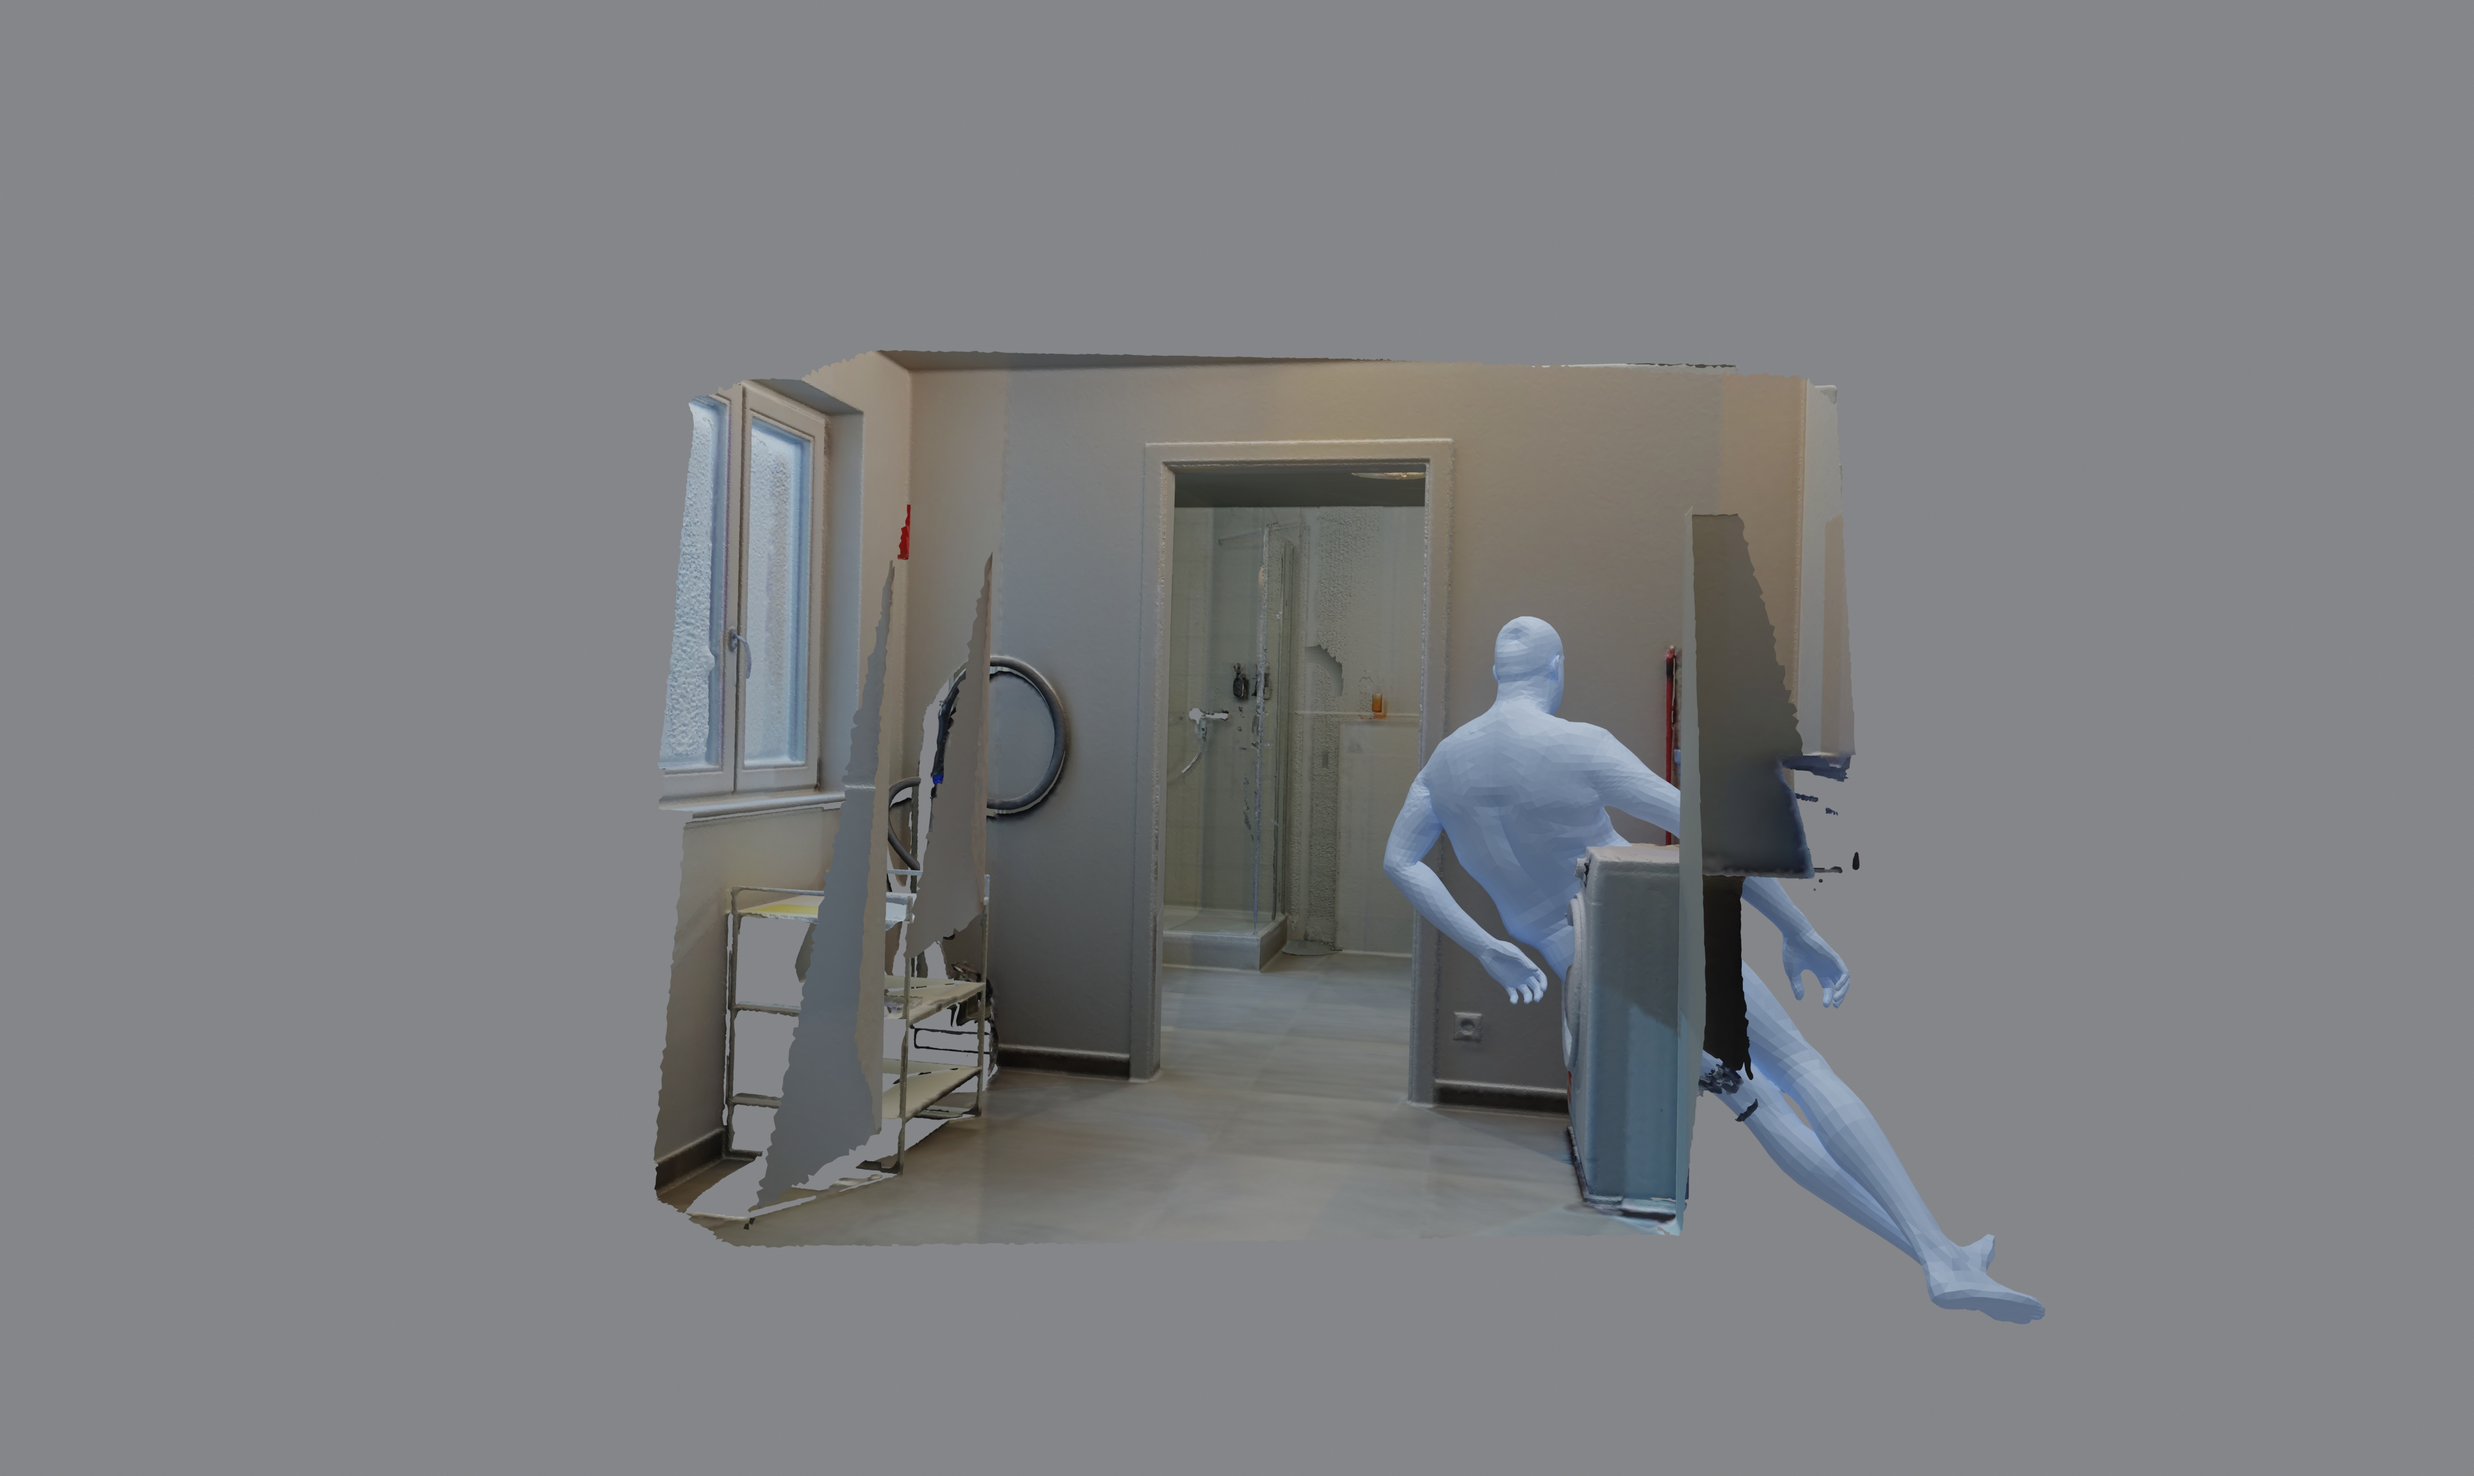
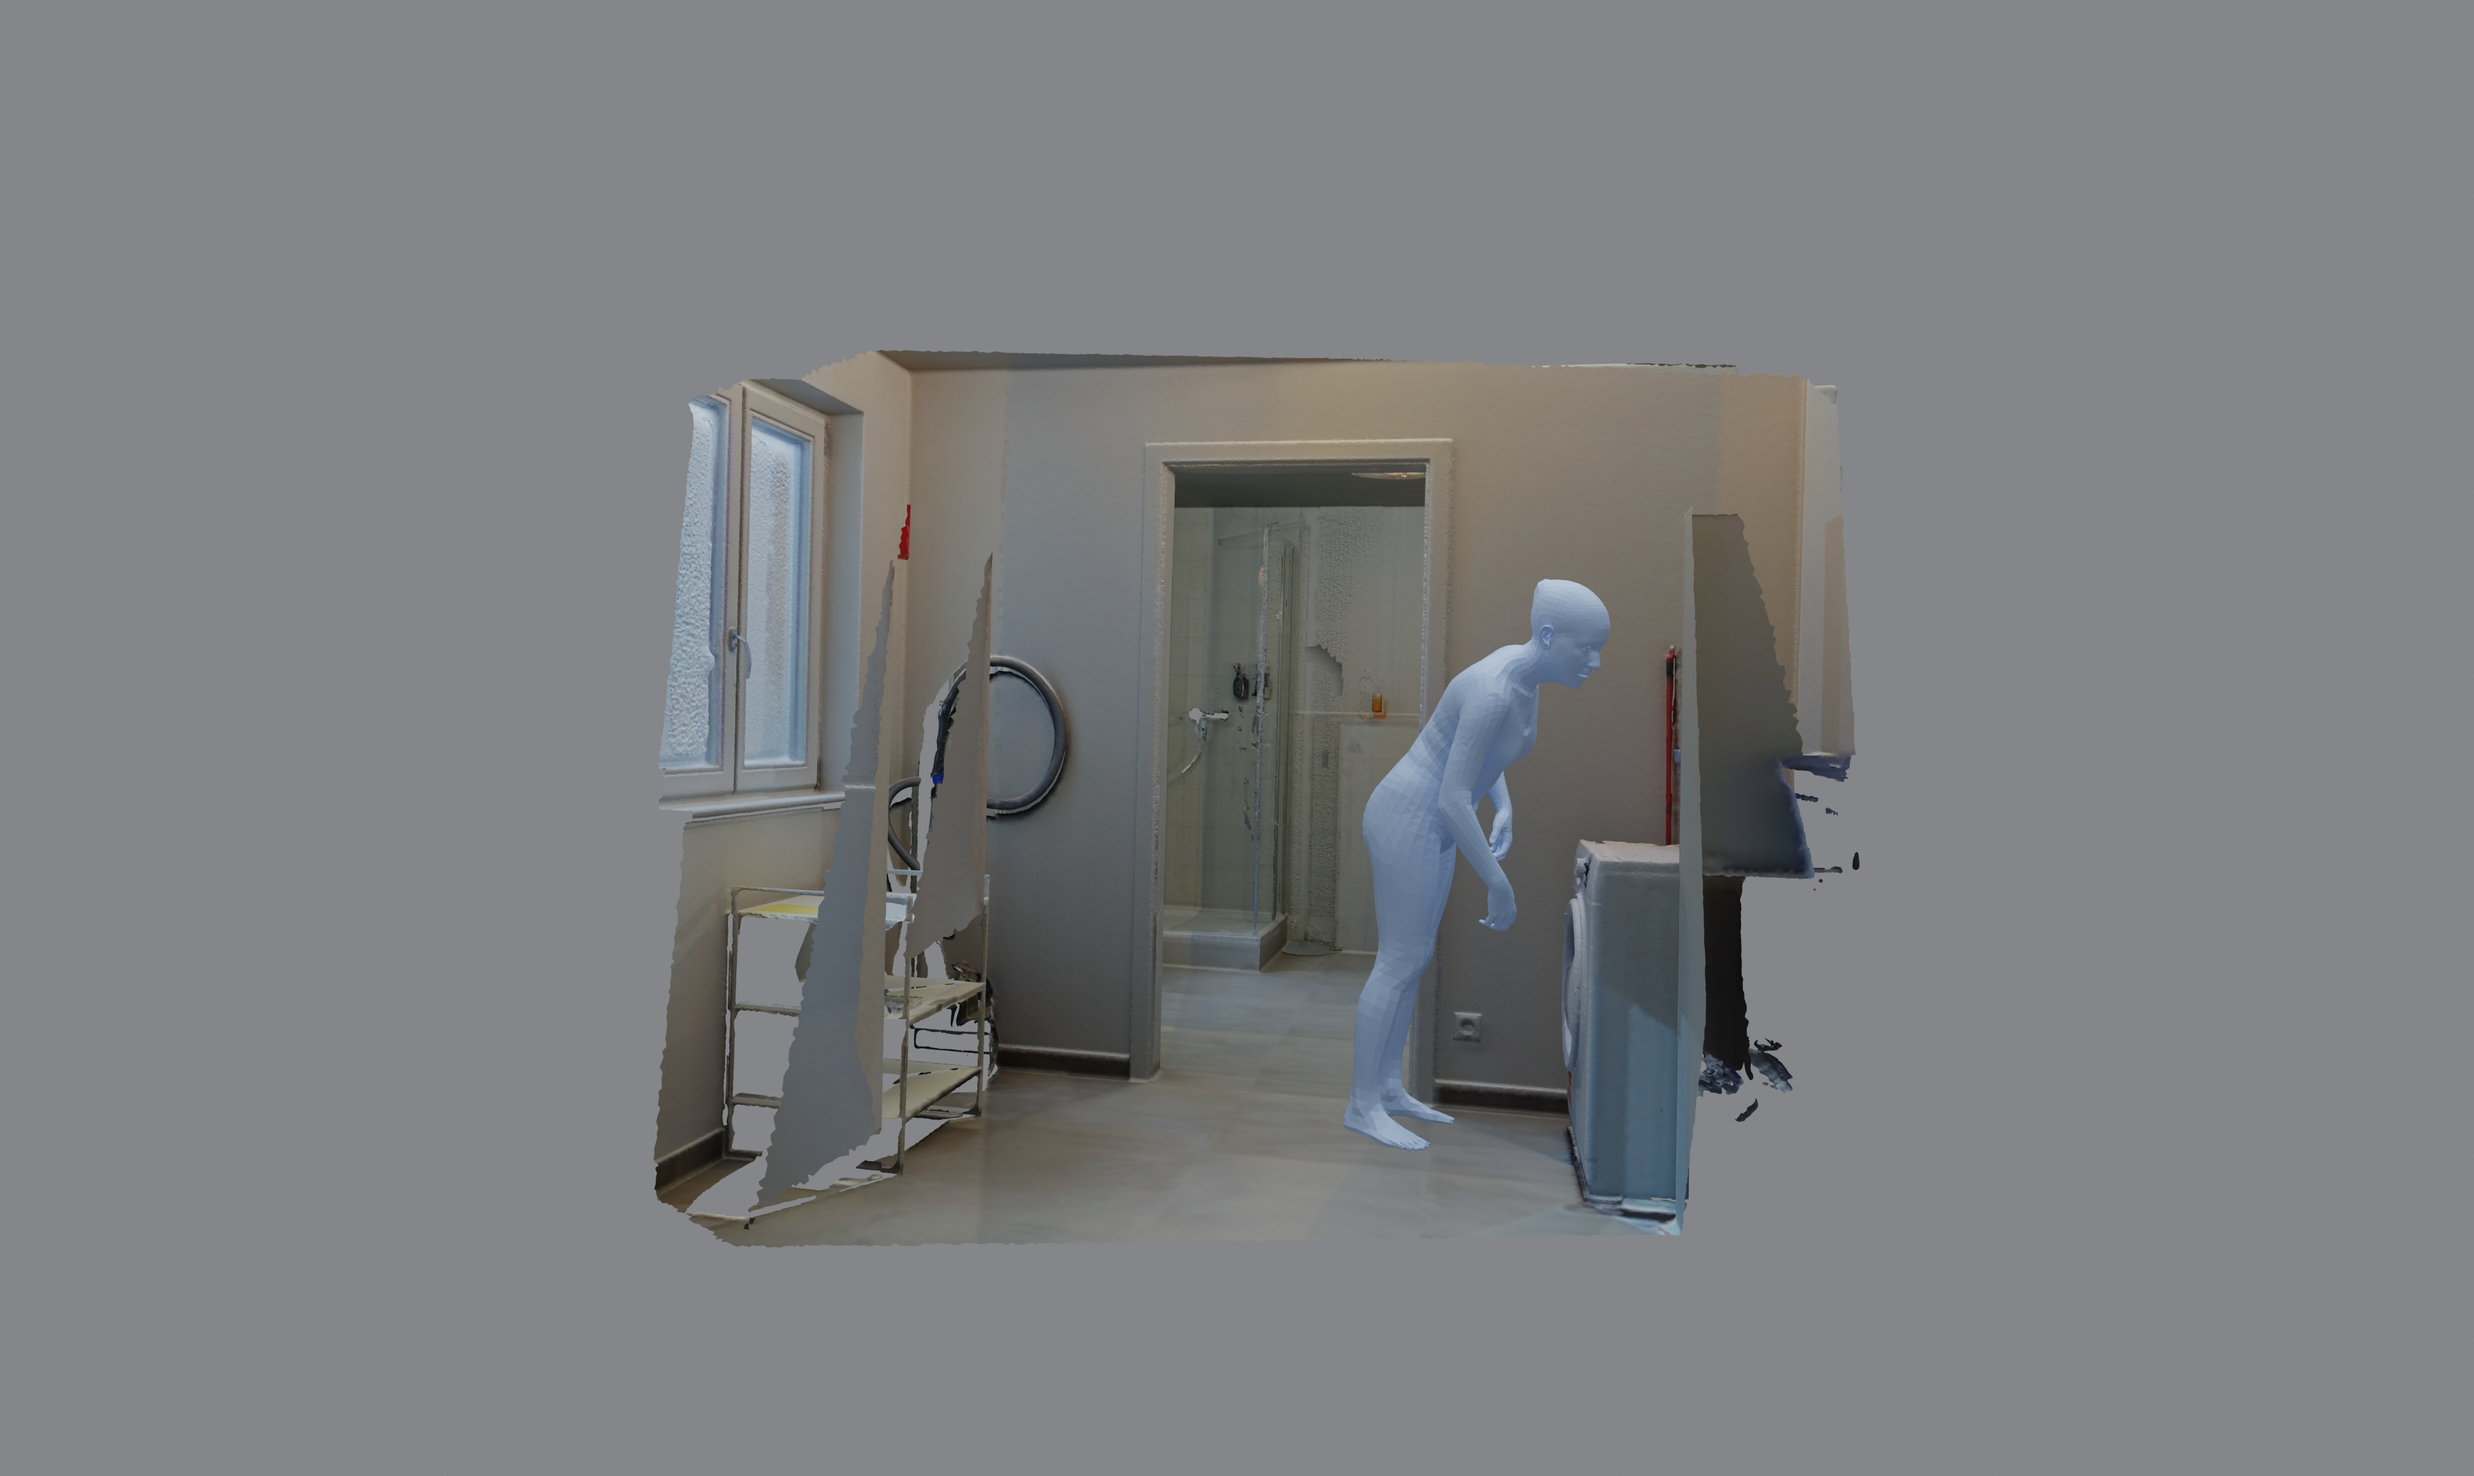
updated genzi results with new inpainting

Changed region(s): [[0.531, 0.375, 0.6872, 0.7812], [0.6872, 0.5938, 0.8434, 0.9062]]

diff --git a/00_Visualization_Paper/render_genzi_only.py b/00_Visualization_Paper/render_genzi_only.py
@@ -1,0 +1,144 @@
+#!/usr/bin/env python3
+"""Refresh paper GenZI images using the saved camera and shared comparison crop."""
+
+import argparse
+import json
+import math
+import shutil
+from pathlib import Path
+
+from PIL import Image
+
+from camera_and_crop import BASE_HEIGHT, BASE_WIDTH, FINAL_SIZE, read_camera
+from render_interaction import MODULE_DIR, PROJECT_DIR, pick_gpu, resolve_artifact, run_blender, write_json
+
+
+def parse_args():
+    parser = argparse.ArgumentParser(description=__doc__)
+    group = parser.add_mutually_exclusive_group(required=True)
+    group.add_argument("--interaction-name")
+    group.add_argument("--all-cameras", action="store_true")
+    parser.add_argument("--camera-dir", type=Path, default=MODULE_DIR / "Render_Cameras")
+    parser.add_argument("--output-dir", type=Path, default=MODULE_DIR / "Output")
+    parser.add_argument("--project-dir", type=Path, default=PROJECT_DIR)
+    parser.add_argument(
+        "--blender-bin",
+        default=shutil.which("blender") or "/home/umer/software/blender-4.2.17-linux-x64/blender",
+    )
+    parser.add_argument("--gpu-index", default="auto")
+    parser.add_argument("--samples", type=int, default=None)
+    parser.add_argument("--human-z-offset-m", type=float, default=0.0)
+    parser.add_argument("--prepare-only", action="store_true")
+    return parser.parse_args()
+
+
+def render_one(name, args):
+    camera_path = (args.camera_dir / f"{name}.xml").resolve()
+    camera = read_camera(camera_path)
+    output = (args.output_dir / name).resolve()
+    paper_manifest_path = output / "manifest.json"
+    paper_camera_path = output / "camera.xml"
+    if not paper_manifest_path.is_file() or not paper_camera_path.is_file():
+        raise FileNotFoundError(f"Existing paper crop and camera missing for {name}")
+    if camera_path.read_bytes() != paper_camera_path.read_bytes():
+        raise ValueError(f"Paper camera changed for {name}; existing comparison renders use another camera")
+    paper_manifest = json.loads(paper_manifest_path.read_text(encoding="utf-8"))
+    crop = [int(value) for value in paper_manifest["crop_base_xyxy"]]
+    multiplier = int(paper_manifest["render_multiplier"])
+    if len(crop) != 4 or multiplier < 1:
+        raise ValueError(f"Invalid saved paper crop for {name}")
+
+    evaluated_config_path = (
+        args.project_dir / "09_Run_Genzi" / "evaluation" / "output" / name
+        / "semantics" / "assets" / "render_config.json"
+    )
+    evaluated_config = json.loads(evaluated_config_path.read_text(encoding="utf-8"))
+    source_blend = resolve_artifact(evaluated_config["blend_path"], args.project_dir)
+    human_mesh = resolve_artifact(evaluated_config["human_mesh_world"], args.project_dir)
+    (output / "logs").mkdir(parents=True, exist_ok=True)
+    config_path = output / "genzi_render_config.json"
+    inspection_path = output / "genzi_inspection.json"
+    config = {
+        "interaction_name": name,
+        "camera_xml": str(camera_path),
+        "camera": camera,
+        "source_blend": str(source_blend),
+        "human_meshes": {"genzi": str(human_mesh)},
+        "methods": ["genzi"],
+        "output_dir": str(output),
+        "inspection_path": str(inspection_path),
+        "samples": args.samples,
+        "selected_candidate_dir": evaluated_config["selected_candidate_dir"],
+        "evaluated_config": str(evaluated_config_path),
+        "human_z_offset_m": args.human_z_offset_m,
+    }
+    write_json(config_path, config)
+    gpu = pick_gpu(args.gpu_index)
+    run_blender(args.blender_bin, config_path, output, "inspect", gpu, log_prefix="genzi_")
+    inspection = json.loads(inspection_path.read_text(encoding="utf-8"))
+    bounds = inspection["methods"]["genzi"]["bounds_base_xyxy"]
+    cropped = (
+        bounds[0] < crop[0] or bounds[1] < crop[1]
+        or bounds[2] > crop[2] or bounds[3] > crop[3]
+    )
+    genzi_manifest_path = output / "genzi_manifest.json"
+    genzi_manifest = {
+        "status": "prepared",
+        "interaction_name": name,
+        "source_blend": str(source_blend),
+        "human_mesh_world": str(human_mesh),
+        "human_z_offset_m": args.human_z_offset_m,
+        "selected_candidate_dir": config["selected_candidate_dir"],
+        "camera_xml": str(camera_path),
+        "crop_base_xyxy": crop,
+        "render_multiplier": multiplier,
+        "human_bounds_base_xyxy": bounds,
+        "crop_clips_human": cropped,
+        "style": inspection["style"],
+    }
+    write_json(genzi_manifest_path, genzi_manifest)
+    if cropped:
+        print(f"WARNING: {name} GenZI human extends beyond the saved shared crop", flush=True)
+    if args.prepare_only:
+        return genzi_manifest
+
+    run_blender(args.blender_bin, config_path, output, "render", gpu, 1, log_prefix="genzi_")
+    if multiplier > 1:
+        run_blender(args.blender_bin, config_path, output, "render", gpu, multiplier, log_prefix="genzi_")
+    full = output / "full" / f"{BASE_WIDTH * multiplier}x{BASE_HEIGHT * multiplier}" / "genzi.jpg"
+    with Image.open(full) as image:
+        if image.size != (BASE_WIDTH * multiplier, BASE_HEIGHT * multiplier):
+            raise RuntimeError(f"Unexpected GenZI render dimensions for {name}: {image.size}")
+        scaled_crop = [value * multiplier for value in crop]
+        final = image.convert("RGB").crop(scaled_crop)
+        if final.width < FINAL_SIZE:
+            raise RuntimeError(f"GenZI crop would be upscaled for {name}")
+        if final.size != (FINAL_SIZE, FINAL_SIZE):
+            final = final.resize((FINAL_SIZE, FINAL_SIZE), Image.Resampling.LANCZOS)
+        final.save(output / "genzi.jpg", quality=98, subsampling=0)
+    genzi_manifest["status"] = "complete"
+    write_json(genzi_manifest_path, genzi_manifest)
+    print(f"{name}: updated GenZI render with saved paper crop", flush=True)
+    return genzi_manifest
+
+
+def main():
+    args = parse_args()
+    if args.samples is not None and args.samples < 1:
+        raise ValueError("--samples must be positive")
+    if not math.isfinite(args.human_z_offset_m):
+        raise ValueError("--human-z-offset-m must be finite")
+    if args.all_cameras and args.human_z_offset_m != 0.0:
+        raise ValueError("Height offsets require a single --interaction-name")
+    names = (
+        [path.stem for path in sorted(args.camera_dir.glob("interaction_*.xml"))]
+        if args.all_cameras else [args.interaction_name]
+    )
+    if not names:
+        raise FileNotFoundError(f"No paper cameras under {args.camera_dir}")
+    for name in names:
+        render_one(name, args)
+
+
+if __name__ == "__main__":
+    main()

diff --git a/00_Visualization_Paper/blender_render.py b/00_Visualization_Paper/blender_render.py
@@ -34,10 +34,12 @@ def setup(config):
         raise RuntimeError("Module 06 human material is missing")
     reference.hide_render = True
     humans = {}
-    for method in METHODS:
+    for method in config.get("methods", METHODS):
         obj = import_ply(config["human_meshes"][method])
         obj.name = f"paper_{method}"
         obj.matrix_world = reference.matrix_world.copy()
+        if method == "genzi":
+            obj.location.z += float(config.get("human_z_offset_m", 0.0))
         obj.data.materials.clear()
         for material in materials:
             obj.data.materials.append(material)
@@ -155,7 +157,7 @@ def render(config, scene, humans, multiplier):
     scene.render.resolution_y = BASE_HEIGHT * multiplier
     out = Path(config["output_dir"]) / "full" / f"{scene.render.resolution_x}x{scene.render.resolution_y}"
     out.mkdir(parents=True, exist_ok=True)
-    for method in METHODS:
+    for method in config.get("methods", METHODS):
         for key, obj in humans.items():
             obj.hide_render = key != method
         scene.render.filepath = str(out / f"{method}.jpg")

diff --git a/00_Visualization_Paper/render_interaction.py b/00_Visualization_Paper/render_interaction.py
@@ -83,8 +83,8 @@ def pick_gpu(requested):
         return None
 
 
-def run_blender(blender, config_path, output, phase, gpu, multiplier=1):
-    log_path = output / "logs" / f"{phase}_{multiplier}x.log"
+def run_blender(blender, config_path, output, phase, gpu, multiplier=1, log_prefix=""):
+    log_path = output / "logs" / f"{log_prefix}{phase}_{multiplier}x.log"
     command = [blender, "--background", "--python-exit-code", "1", "--python",
                str(MODULE_DIR / "blender_render.py"), "--", str(config_path),
                "--phase", phase, "--multiplier", str(multiplier)]
